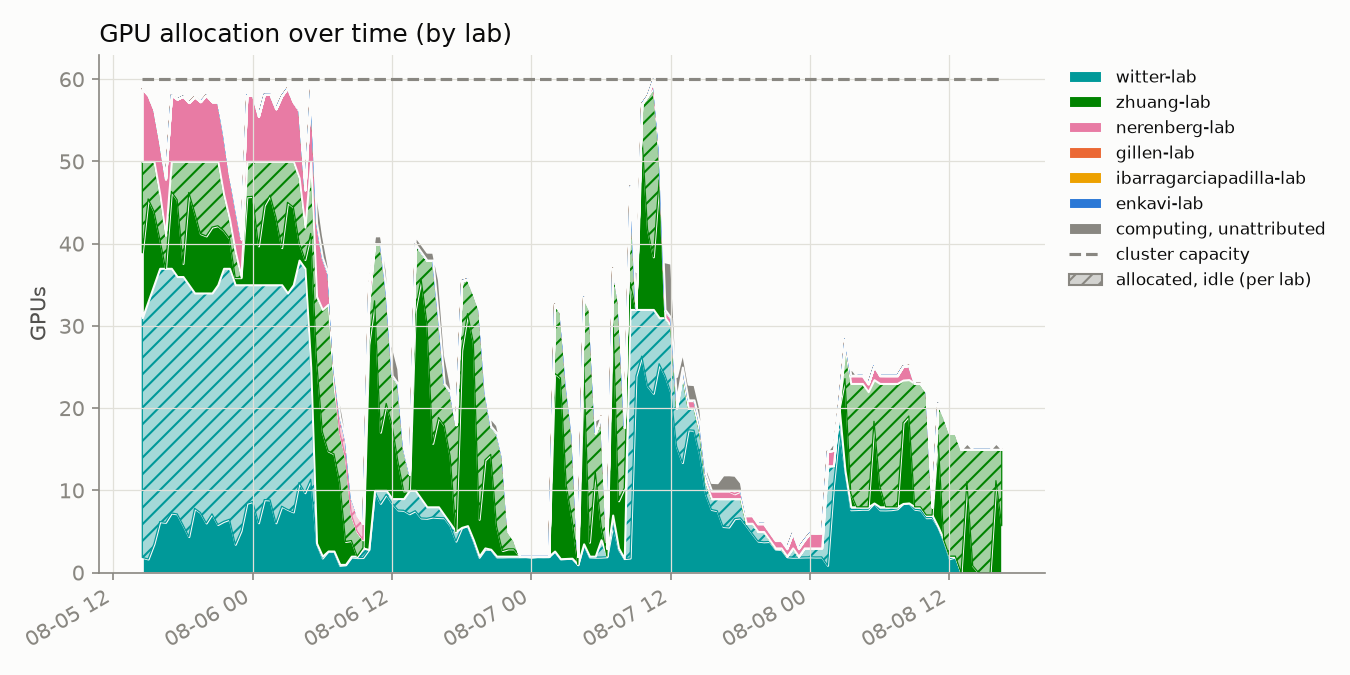
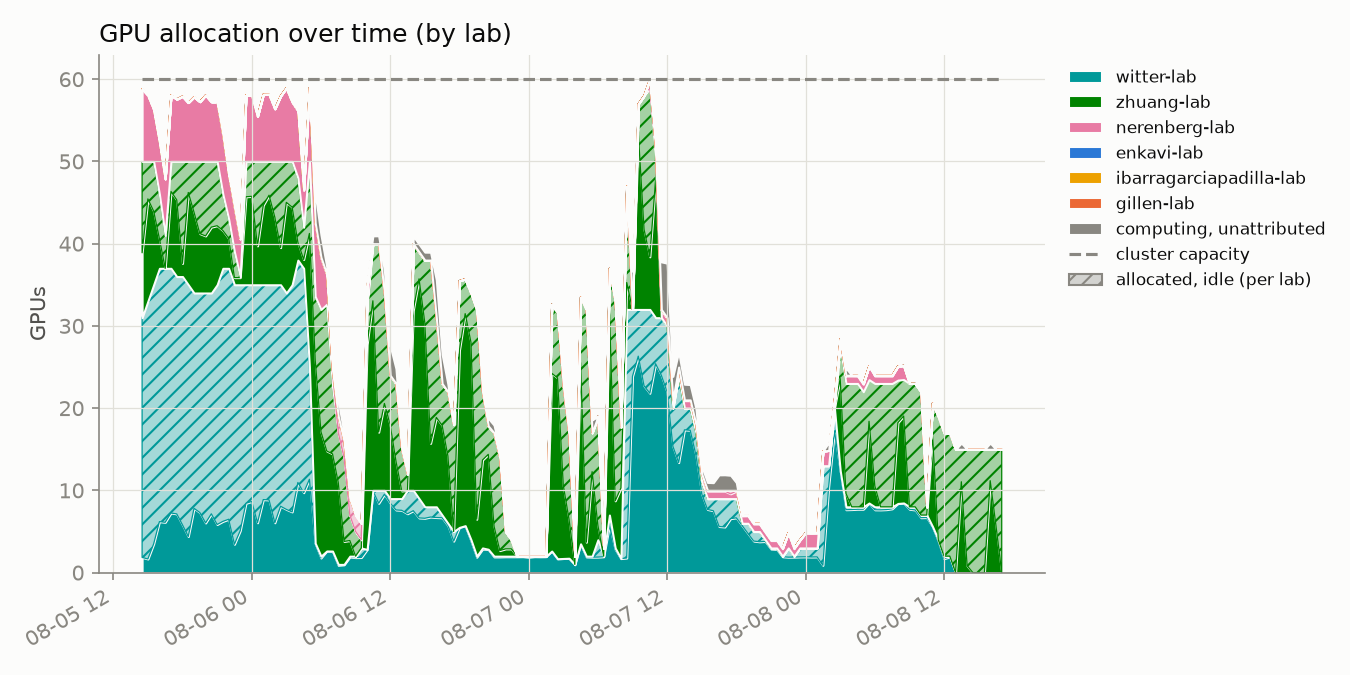
update 2026-08-08T17:00:01-07:00

diff --git a/README.md b/README.md
@@ -2,8 +2,8 @@
 
 Automated GPU/CPU/queue utilization tracker for `hopper.cluster`, updated every 30 minutes by cron. Usernames are anonymized to a stable per-account pseudonym; lab names are real.
 
-Last updated: 2026-08-08T16:30:11-07:00
-Samples: 149 queue snapshots, 149 GPU snapshots
+Last updated: 2026-08-08T17:00:10-07:00
+Samples: 150 queue snapshots, 150 GPU snapshots
 
 ## Resources
 
@@ -16,25 +16,25 @@ Samples: 149 queue snapshots, 149 GPU snapshots
 
 ## Headline
 
-- **43.6%** of the cluster's 60 GPUs allocated, averaged across all samples
-- **46.2%** average `nvidia-smi` utilization *when* a GPU is allocated to a job
+- **43.5%** of the cluster's 60 GPUs allocated, averaged across all samples
+- **46.0%** average `nvidia-smi` utilization *when* a GPU is allocated to a job
 - **88.3%** average cgroup CPU utilization *when* a CPU is allocated to a job
 
 ## Per lab / per user
 
 <table>
 <tr><th>Lab</th><th>User</th><th align='right'>GPU-hours allocated</th><th align='right'>CPU-hours allocated</th><th align='right'>GPU utilization</th></tr>
-<tr style='background-color:#d8ecd8'><td>zhuang-lab</td><td>user-0db9ced0</td><td align='right'>924.5</td><td align='right'>924.5</td><td align='right'>43%</td></tr>
-<tr style='background-color:#d8efef'><td>witter-lab</td><td>user-554c620c</td><td align='right'>493.5</td><td align='right'>1019.0</td><td align='right'>68%</td></tr>
+<tr style='background-color:#d8ecd8'><td>zhuang-lab</td><td>user-0db9ced0</td><td align='right'>932.0</td><td align='right'>932.0</td><td align='right'>43%</td></tr>
+<tr style='background-color:#d8efef'><td>witter-lab</td><td>user-554c620c</td><td align='right'>493.5</td><td align='right'>1023.0</td><td align='right'>68%</td></tr>
 <tr style='background-color:#d8efef'><td>witter-lab</td><td>user-d58f5a15</td><td align='right'>467.5</td><td align='right'>3740.0</td><td align='right'>9%</td></tr>
 <tr style='background-color:#fbebf1'><td>nerenberg-lab</td><td>user-6bb5f332</td><td align='right'>40.0</td><td align='right'>200.0</td><td align='right'>71%</td></tr>
 <tr style='background-color:#fbebf1'><td>nerenberg-lab</td><td>user-fedb5feb</td><td align='right'>22.5</td><td align='right'>54.0</td><td align='right'>67%</td></tr>
-<tr style='background-color:#fcf0d8'><td>ibarragarciapadilla-lab</td><td>user-3cfc41a3</td><td align='right'>0.0</td><td align='right'>4042.5</td><td align='right'>—</td></tr>
-<tr style='background-color:#fce8e0'><td>gillen-lab</td><td>user-b89a87ef</td><td align='right'>0.0</td><td align='right'>840.0</td><td align='right'>—</td></tr>
-<tr style='background-color:#fcf0d8'><td>ibarragarciapadilla-lab</td><td>user-eec7ffae</td><td align='right'>0.0</td><td align='right'>426.5</td><td align='right'>—</td></tr>
 <tr style='background-color:#fbebf1'><td>nerenberg-lab</td><td>user-b12dc074</td><td align='right'>0.0</td><td align='right'>16.0</td><td align='right'>—</td></tr>
-<tr style='background-color:#dfeaf8'><td>enkavi-lab</td><td>user-c21bdaa4</td><td align='right'>0.0</td><td align='right'>195.0</td><td align='right'>—</td></tr>
+<tr style='background-color:#fcf0d8'><td>ibarragarciapadilla-lab</td><td>user-eec7ffae</td><td align='right'>0.0</td><td align='right'>426.5</td><td align='right'>—</td></tr>
+<tr style='background-color:#fce8e0'><td>gillen-lab</td><td>user-b89a87ef</td><td align='right'>0.0</td><td align='right'>852.0</td><td align='right'>—</td></tr>
 <tr style='background-color:#fcf0d8'><td>ibarragarciapadilla-lab</td><td>user-dad71a72</td><td align='right'>0.0</td><td align='right'>6.0</td><td align='right'>—</td></tr>
+<tr style='background-color:#fcf0d8'><td>ibarragarciapadilla-lab</td><td>user-3cfc41a3</td><td align='right'>0.0</td><td align='right'>4050.0</td><td align='right'>—</td></tr>
+<tr style='background-color:#dfeaf8'><td>enkavi-lab</td><td>user-c21bdaa4</td><td align='right'>0.0</td><td align='right'>197.0</td><td align='right'>—</td></tr>
 </table>
 
 ## Usage over time
@@ -45,7 +45,7 @@ Samples: 149 queue snapshots, 149 GPU snapshots
 
 Solid = utilized by lab, hatched = allocated but idle, gray = usage not traceable to a lab, dashed line = cluster capacity.
 
-Attribution combines `nvidia-smi`'s process listing with Slurm's GPU-to-job binding record; the latter caught **2798** readings the former missed.
+Attribution combines `nvidia-smi`'s process listing with Slurm's GPU-to-job binding record; the latter caught **2809** readings the former missed.
 
 ## Queue
 
@@ -57,13 +57,13 @@ Attribution combines `nvidia-smi`'s process listing with Slurm's GPU-to-job bind
 
 ![CPU usage vs GPU usage, decayed](assets/cpu_gpu_usage.png)
 
-One point per user per snapshot (n=710), usage decayed on Slurm's ~7-day fairshare half-life.
+One point per user per snapshot (n=715), usage decayed on Slurm's ~7-day fairshare half-life.
 
 **GPU usage doesn't count toward priority on this cluster** (`TRESBillingWeights`/`PriorityWeightTRES` unset) - watch the **upper-left**: low CPU usage (high priority) with high GPU usage.
 
 ## Recommendations
 
-1. **Weight GPU usage in fairshare.** `TRESBillingWeights` and `PriorityWeightTRES` are both unset right now, so Slurm's fairshare score only sees CPU-seconds - a job holding 4 idle L40S GPUs costs nothing in priority as long as it isn't also holding CPUs. That's the exact failure mode the scatter above is built to catch (upper-left: low CPU usage, high GPU usage). Fix: `scontrol update partition=main TRESBillingWeights=CPU=1.0,GRES/gpu=<weight>` (or set `PriorityWeightTRES` cluster-wide), then `scontrol reconfigure` - a full `slurmctld` restart also works but drops in-flight priority state. A reasonable starting point for `<weight>` is the CPUs-per-GPU ratio on a GPU node (128 CPUs / 4 GPUs = 32), so one GPU costs as much fairshare as the CPU share it displaces; tune from there against next week's headline numbers (43.6% allocated, 46.2% utilized when allocated, as of this snapshot). The weight value itself is a policy call - loop in whoever owns cluster allocation policy before changing it.
+1. **Weight GPU usage in fairshare.** `TRESBillingWeights` and `PriorityWeightTRES` are both unset right now, so Slurm's fairshare score only sees CPU-seconds - a job holding 4 idle L40S GPUs costs nothing in priority as long as it isn't also holding CPUs. That's the exact failure mode the scatter above is built to catch (upper-left: low CPU usage, high GPU usage). Fix: `scontrol update partition=main TRESBillingWeights=CPU=1.0,GRES/gpu=<weight>` (or set `PriorityWeightTRES` cluster-wide), then `scontrol reconfigure` - a full `slurmctld` restart also works but drops in-flight priority state. A reasonable starting point for `<weight>` is the CPUs-per-GPU ratio on a GPU node (128 CPUs / 4 GPUs = 32), so one GPU costs as much fairshare as the CPU share it displaces; tune from there against next week's headline numbers (43.5% allocated, 46.0% utilized when allocated, as of this snapshot). The weight value itself is a policy call - loop in whoever owns cluster allocation policy before changing it.
 
 2. **Escalate on sustained low utilization** (see table and scatter above). Right now the clearest candidate is `user-d58f5a15` in `witter-lab`: 467.5 GPU-hours allocated at 9% average utilization, i.e. roughly 424 GPU-hours that sat idle instead of going to someone in the queue. Turning that into an automated escalation needs two decisions made up front: a utilization threshold (something like under 20% mean utilization over at least 50 allocated GPU-hours is a defensible starting bar - loose enough to skip short debugging runs, tight enough to catch parked allocations) and a grace period (how many consecutive low-utilization snapshots before it counts as "sustained" rather than a momentary lull between batches). Once those are set, the mechanism can be either soft (a bot that reads `data/gpu_samples.jsonl` and reminds the user/lab by email or Slack) or hard (a Slurm-side QOS penalty, e.g. `sacctmgr modify qos <qos> set Priority-=<n>`, applied after N consecutive offending snapshots). Neither exists yet - today the table and scatter above are a read-only signal, not an enforced policy.
 
